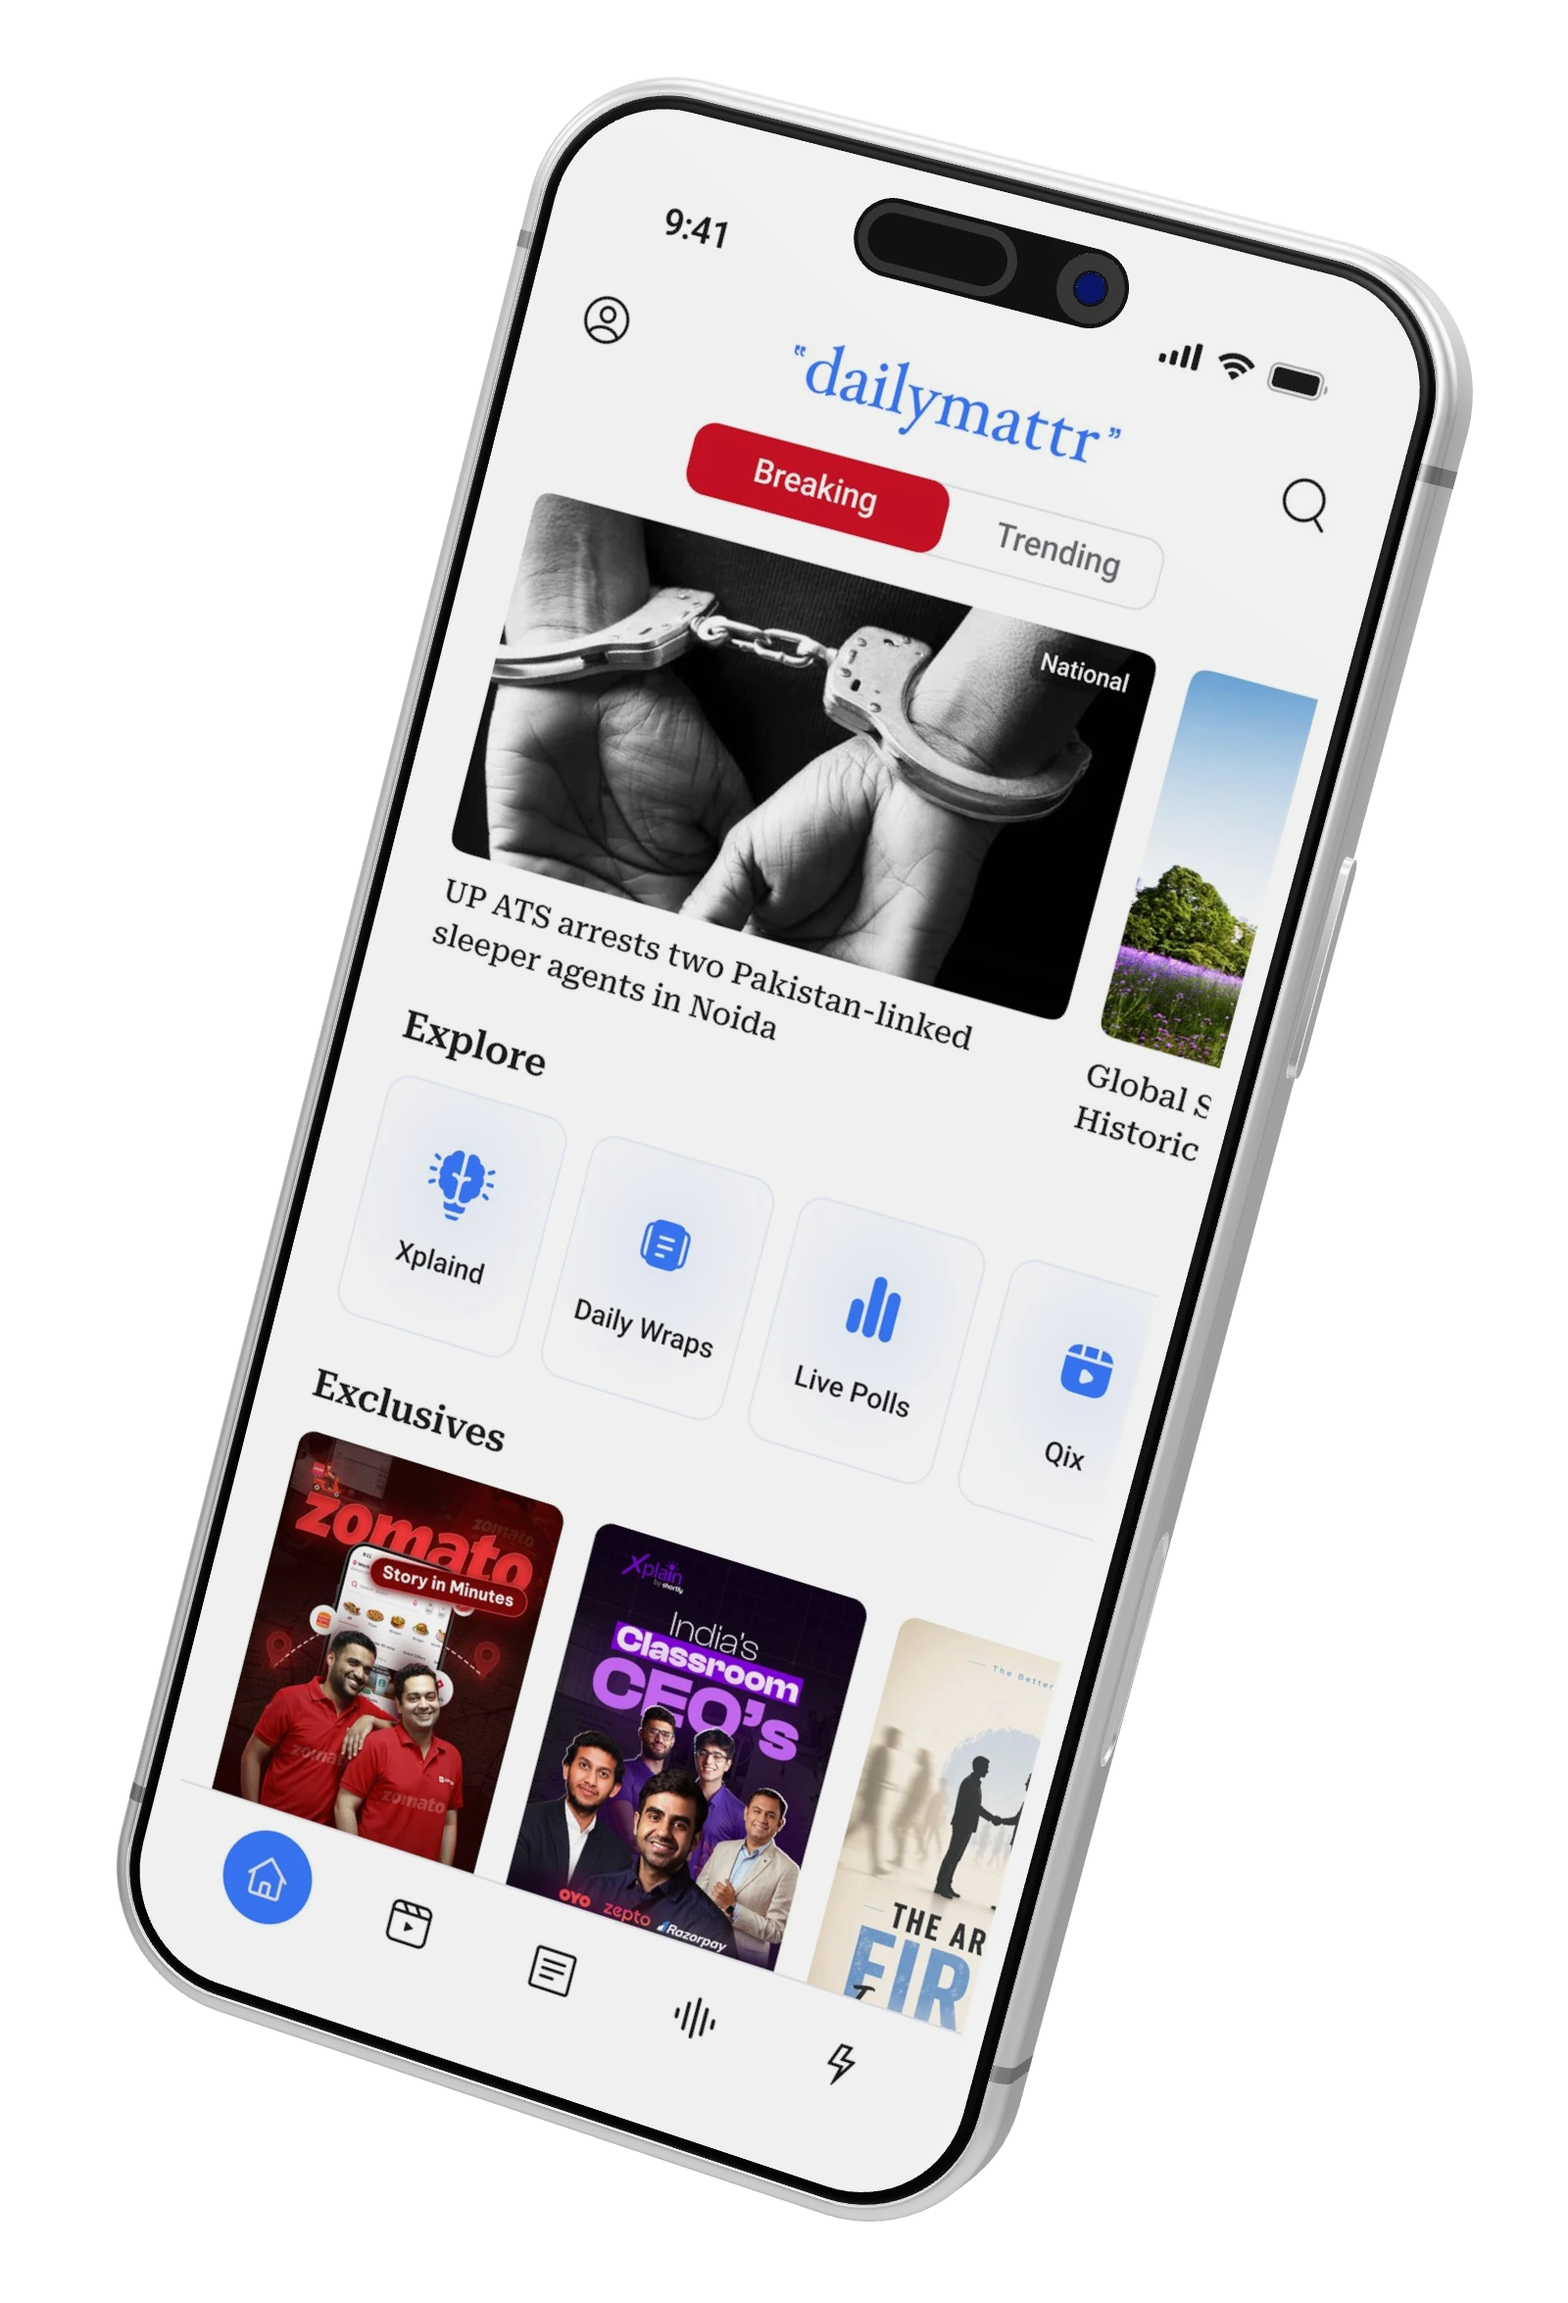
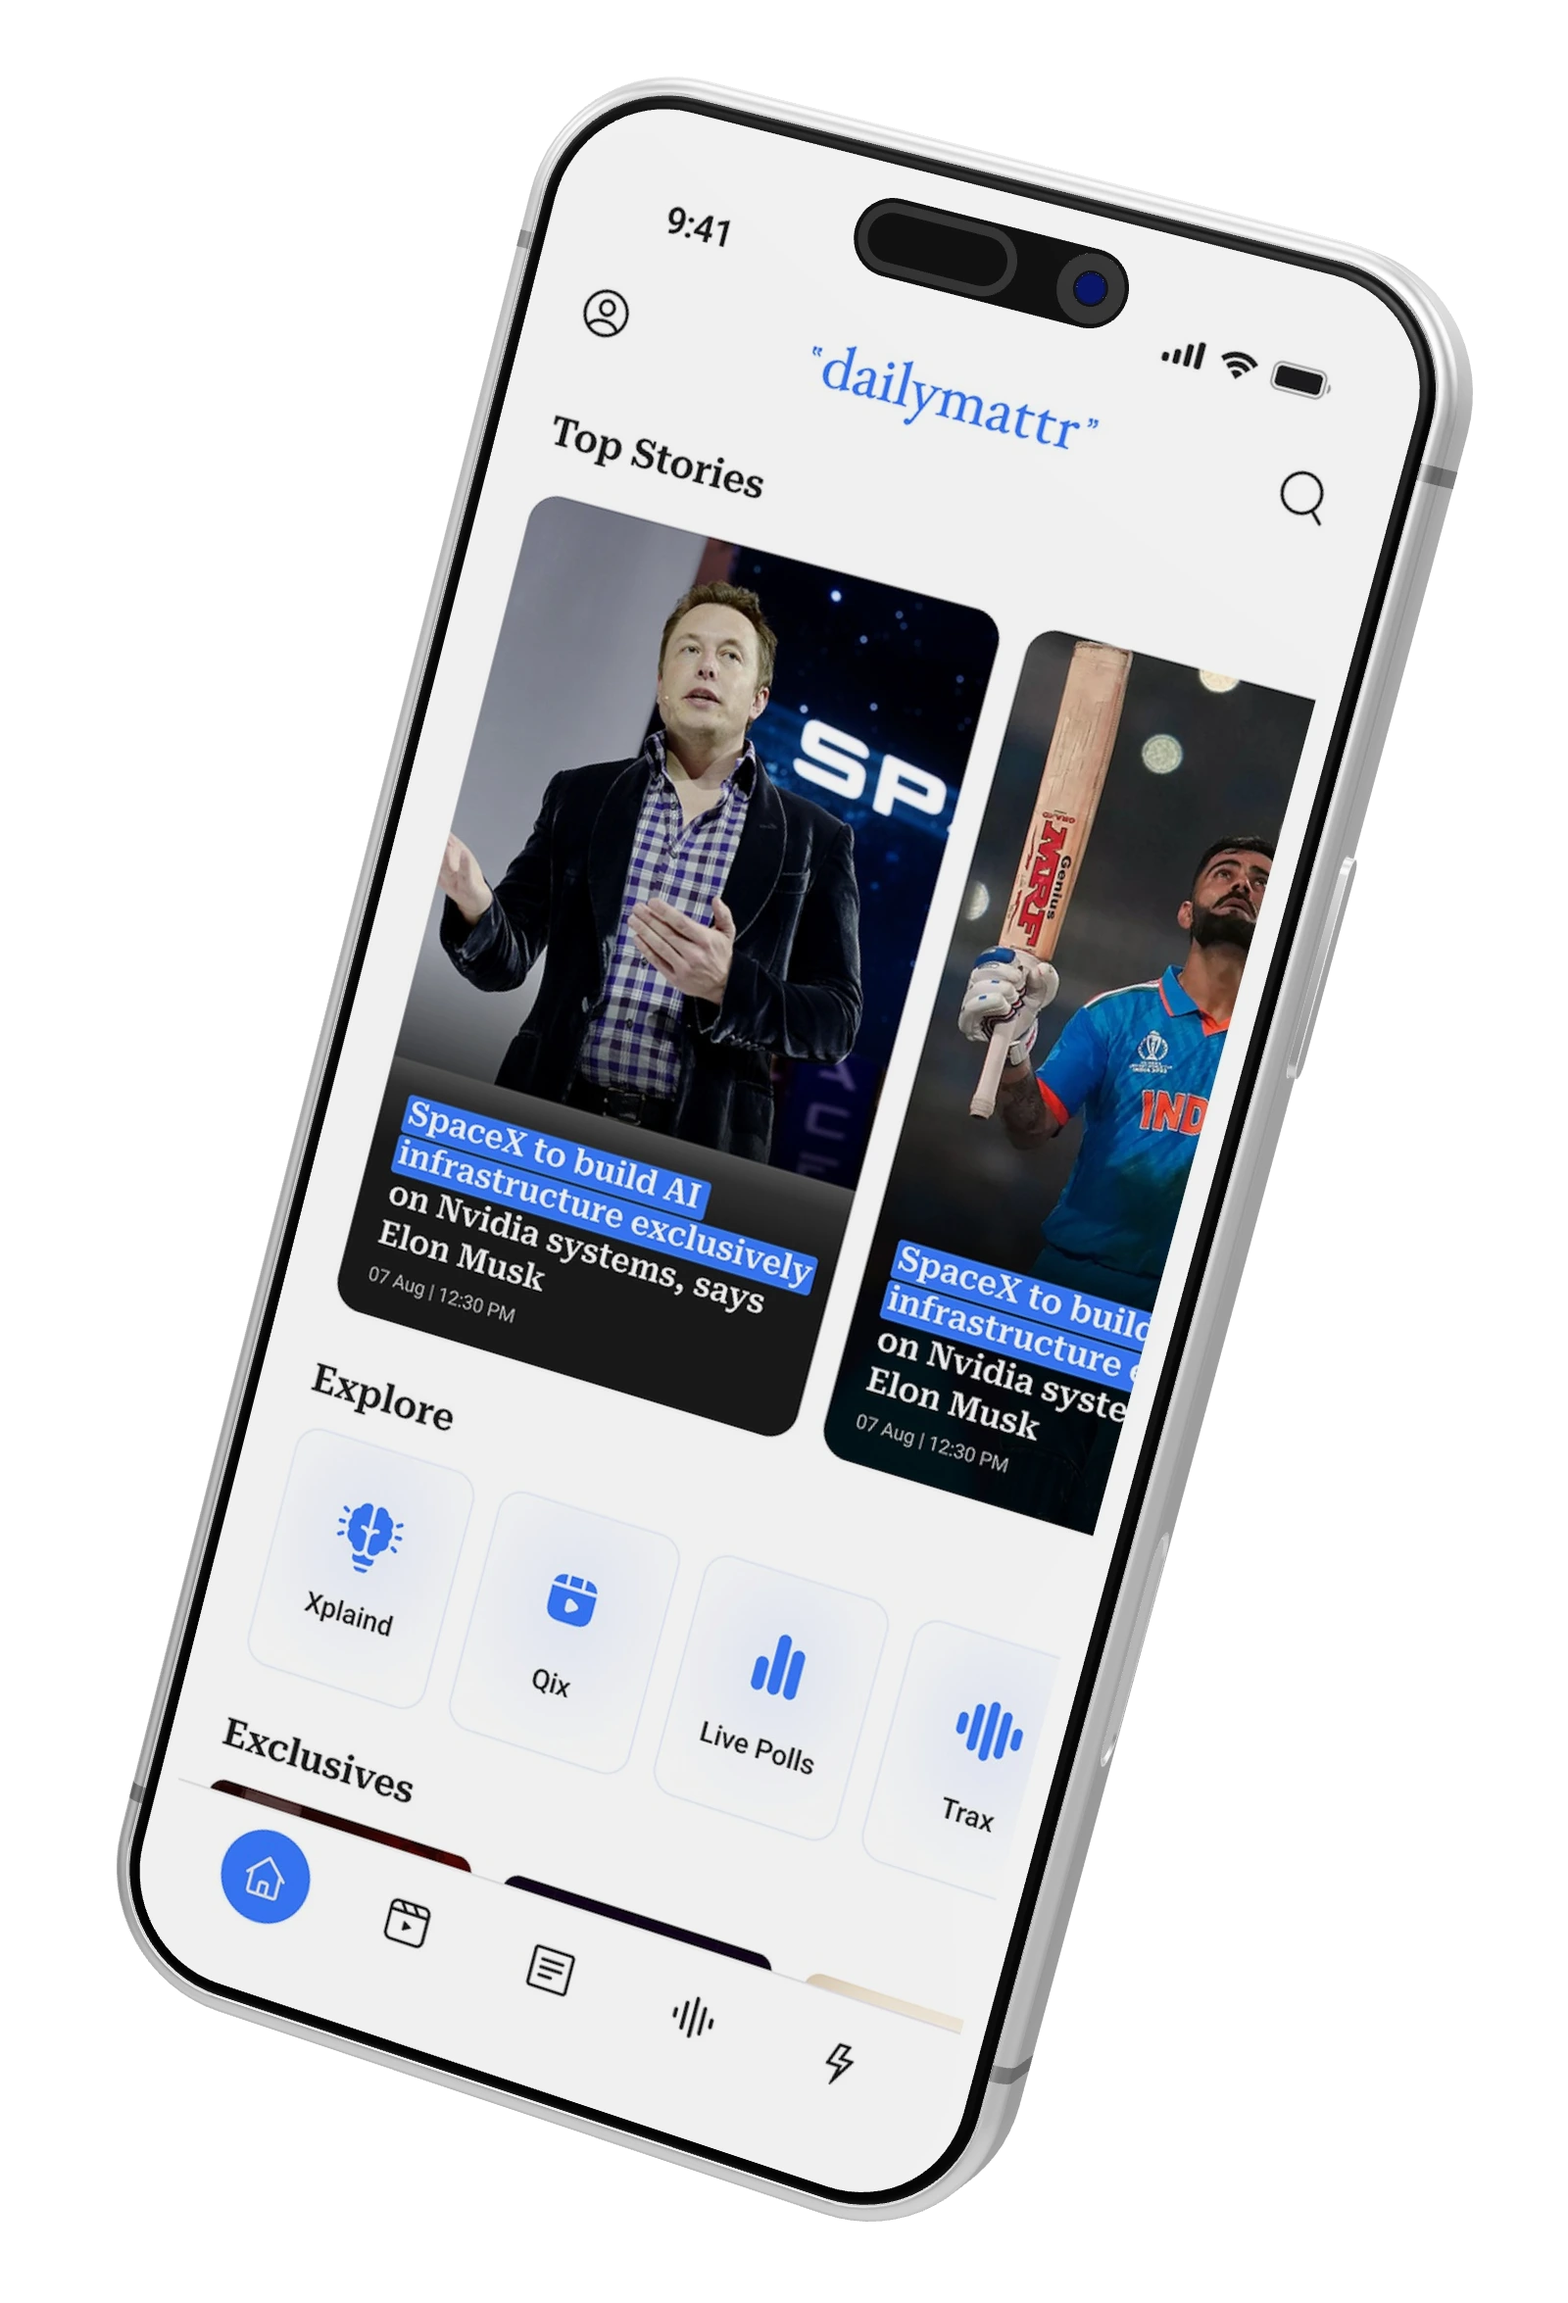
Update hero home screen and fan phone screenshots
Replace the 3D phone's home screen with the new design and re-bake the
desktop/mobile phone sprite sheets and stills from it (model and poses
unchanged). Swap the hero fan's side phones for the new Article, Qix,
Pix and Trax screens in that order.

diff --git a/index.html b/index.html
@@ -44,7 +44,7 @@
   <!-- only the centre fan image is preloaded: it is the LCP candidate. The
        other screens and the baked phone sequences are fetched on demand by
        main.js / phoneSeq.js (assetsSettled() caps how long the intro waits) -->
-  <link rel="preload" as="image" href="/assets/screen-article.jpg?v=5" fetchpriority="high" />
+  <link rel="preload" as="image" href="/assets/fan-qix.jpg?v=1" fetchpriority="high" />
   <script
     type="application/ld+json">{"@context":"https://schema.org","@graph":[{"@type":"Organization","@id":"https://www.dailymattr.com/#organization","name":"DailyMattr","legalName":"Dridha Technologies Private Limited","url":"https://www.dailymattr.com/","logo":{"@type":"ImageObject","url":"https://www.dailymattr.com/assets/publisher-logo.png","width":600,"height":120},"sameAs":["https://play.google.com/store/apps/details?id=com.dailymattr&pcampaignid=web_share","https://apps.apple.com/in/app/dailymattr/id6791996138"],"contactPoint":{"@type":"ContactPoint","contactType":"customer support","email":"support@dailymattr.com"}},{"@type":"WebSite","@id":"https://www.dailymattr.com/#website","url":"https://www.dailymattr.com/","name":"DailyMattr","inLanguage":"en-IN","publisher":{"@id":"https://www.dailymattr.com/#organization"}},{"@type":"MobileApplication","name":"DailyMattr","operatingSystem":"Android","applicationCategory":"NewsApplication","installUrl":"https://play.google.com/store/apps/details?id=com.dailymattr&pcampaignid=web_share","offers":{"@type":"Offer","price":"0","priceCurrency":"INR"},"publisher":{"@id":"https://www.dailymattr.com/#organization"}},{"@type":"MobileApplication","name":"DailyMattr","operatingSystem":"iOS","applicationCategory":"NewsApplication","installUrl":"https://apps.apple.com/in/app/dailymattr/id6791996138","offers":{"@type":"Offer","price":"0","priceCurrency":"INR"},"publisher":{"@id":"https://www.dailymattr.com/#organization"}}]}</script>
   <link rel="stylesheet" href="/src/style.css" />
@@ -126,15 +126,15 @@
 
         <!-- phone fan -->
         <div class="fan">
-          <div class="fan-item fan-1"><img src="/assets/screen-trax.jpg?v=5" decoding="async" alt="Trax audio player" />
+          <div class="fan-item fan-1"><img src="/assets/fan-article.jpg?v=1" decoding="async" alt="Article brief" />
           </div>
-          <div class="fan-item fan-2"><img src="/assets/screen-article.jpg?v=5" decoding="async" fetchpriority="high"
-              alt="Article brief" /></div>
+          <div class="fan-item fan-2"><img src="/assets/fan-qix.jpg?v=1" decoding="async" fetchpriority="high"
+              alt="Qix visual stories" /></div>
           <div class="fan-anchor" id="anchor-hero"></div>
-          <div class="fan-item fan-3"><img src="/assets/screen-qix.jpg?v=5" decoding="async" alt="Qix visual stories" />
+          <div class="fan-item fan-3"><img src="/assets/fan-pix.jpg?v=1" decoding="async" alt="Pix visual headlines" />
           </div>
-          <div class="fan-item fan-4"><img src="/assets/screen-pix.jpg?v=5" decoding="async"
-              alt="Pix visual headlines" /></div>
+          <div class="fan-item fan-4"><img src="/assets/fan-trax.jpg?v=1" decoding="async"
+              alt="Trax audio player" /></div>
         </div>
       </div>
     </section>
